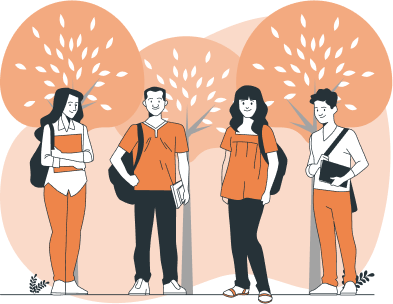
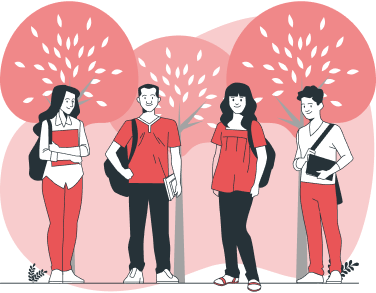
Updated design

diff --git a/src/components/JoinSection.jsx b/src/components/JoinSection.jsx
@@ -5,18 +5,21 @@ import join_3 from "../assets/join_3.png";
 
 const JoinSection = () => {
   return (
-    <section className="mb-10">
+    <section className="pb-20">
       <div className="py-10 w-[85%] mx-auto">
         <img src={join_main} className="w-full mt-20 mb-8" alt="" />
-        <p className="text-center text-[20px] font-semibold tracking-wide">
-          "Join our dynamic community to connect, learn, and grow. Students find
-          internships, mentors share expertise, and founders discover top
-          talent. Together, we shape a brighter future."
+        <p className="text-center text-[20px] font-normal ">
+          Welcome to our vibrant community, where connection, learning, and
+          growth take centre stage. Our platform bridges the gap between
+          students seeking valuable internships, mentors eager to share their
+          expertise, and founders in search of top-tier talent. <br /> <br />
+          By coming together, we pave the way for a brighter and more promising
+          future, empowering individuals to thrive and succeed.
         </p>
       </div>
 
       <div>
-        <h1 className="mt-8 my-20 text-[60px] font-bold text-center font-serifDisplay">
+        <h1 className="mt-8 mt-24 mb-20 text-[60px] font-bold text-center font-serifDisplay">
           WHO CAN JOIN ?
         </h1>
 
@@ -25,12 +28,12 @@ const JoinSection = () => {
             <div>
               <img src={join_1} alt="" />
             </div>
-            <div className="w-[760px] bg-[#FFE6B0] border-[1px] border-r-[2px] border-b-[3px] border-black rounded-[10px] py-[15px] px-[30px] ">
+            <div className="w-[760px] bg-white border-[1px] border-r-[2px] border-b-[4px] border-black rounded-[10px] py-[15px] px-[30px] ">
               <div>
                 <h2 className="text-[30px] font-semibold font-sans">
                   Students
                 </h2>
-                <p className="text-[20px] text-[#634300]">
+                <p className="text-[20px] ">
                   Whether you're searching for the perfect internship, seeking
                   valuable insights, or looking to develop essential skills,
                   we've got you covered. Access a treasure trove of growth
@@ -39,19 +42,19 @@ const JoinSection = () => {
                   a brighter future together.
                 </p>
               </div>
-              <button className="bg-[#A244C3] text-white py-[10px] px-[16px] rounded-[5px] border-[1px] border-black block mx-auto mt-4">
+              <button className="bg-[#A244C3] font-semibold text-white py-[10px] px-[16px] rounded-[5px] border-[1px] border-black border-r-[3px] border-b-[4px] block mx-auto mt-4">
                 JOIN NOW
               </button>
             </div>
           </div>
 
           <div className="flex w-[85%] mx-auto  justify-around">
-            <div className="w-[760px] bg-[#FFE6B0] border-[1px] border-r-[2px] border-b-[3px] border-black rounded-[10px] py-[15px] px-[30px]">
+            <div className="w-[760px] bg-white border-[1px] border-r-[2px] border-b-[4px] border-black rounded-[10px] py-[15px] px-[30px]">
               <div>
                 <h2 className="text-[30px] font-semibold font-sans">
                   Startups
                 </h2>
-                <p className="text-[20px] text-[#634300]">
+                <p className="text-[20px] ">
                   Connect with our platform to tap into a pool of motivated,
                   internship-seeking talent. Identify potential future hires,
                   foster relationships with emerging talent, and offer
@@ -61,7 +64,7 @@ const JoinSection = () => {
                   with us.
                 </p>
               </div>
-              <button className="bg-[#A244C3] text-white py-[10px] px-[16px] rounded-[5px] border-[1px] border-black block mx-auto mt-4">
+              <button className="bg-[#A244C3] font-semibold text-white py-[10px] px-[16px] rounded-[5px] border-[1px] border-black border-r-[3px] border-b-[4px] block mx-auto mt-4">
                 JOIN NOW
               </button>
             </div>
@@ -74,20 +77,20 @@ const JoinSection = () => {
             <div>
               <img src={join_3} alt="" />
             </div>
-            <div className="w-[760px] bg-[#FFE6B0] border-[1px] border-r-[2px] border-b-[3px] border-black rounded-[10px] py-[15px] px-[30px]">
+            <div className="w-[760px] bg-white border-[1px] border-r-[3px] border-b-[4px] border-black rounded-[10px] py-[15px] px-[30px]">
               <div>
                 <h2 className="text-[30px] font-semibold font-sans">Mentors</h2>
-                <p className="text-[20px] text-[#634300]">
+                <p className="text-[20px] ">
                   Join our community and become an invaluable resource for both
-                  students and founders. <br /> Share your expertise with the
-                  next generation and gain exposure for your services. Connect
-                  with motivated students seeking guidance and collaborate with
-                  innovative founders. It's a win-win opportunity to make a
-                  meaningful impact while advancing your own career. Join us
-                  today!
+                  students and founders. <br />
+                  Share your expertise with the next generation and gain
+                  exposure for your services. Connect with motivated students
+                  seeking guidance and collaborate with innovative founders.
+                  It's a win-win opportunity to make a meaningful impact while
+                  advancing your own career. Join us today!
                 </p>
               </div>
-              <button className="bg-[#A244C3] text-white py-[10px] px-[16px] rounded-[5px] border-[1px] border-black block mx-auto mt-4">
+              <button className="bg-[#A244C3] font-semibold text-white py-[10px] px-[16px] rounded-[5px] border-[1px] border-black border-r-[3px] border-b-[4px] block mx-auto mt-4">
                 JOIN NOW
               </button>
             </div>

diff --git a/src/components/Hero.jsx b/src/components/Hero.jsx
@@ -4,29 +4,44 @@ import Gradient from "../assets/Gradient.png";
 import cup from "../assets/cup.png";
 import tie from "../assets/tie.png";
 import line from "../assets/line.png";
-import share from "../assets/share.png";
 
 const Header = () => {
   return (
     <div className="relative">
-      <div className="relative h-[730px] overflow-hidden">
+      <div className="z-10 relative h-[750px] overflow-hidden">
         <div className="absolute -z-10 w-full">
           <img src={Gradient} className="w-full h-[790px]" alt="" />
         </div>
+
         <Navbar />
         <HeroText />
-        <img src={cup} className="absolute left-0 top-28" alt="" />
+
+        <img src={cup} className="absolute left-0 top-36" alt="" />
         <img
           src={line}
-          className="absolute translate-x-[285px] -translate-y-[340px] w-[69%]"
+          className="absolute translate-x-[247px] -translate-y-[390px]  w-[73%]"
           alt=""
         />
-        <img src={tie} className="absolute right-0 top-52" alt="" />
+        <img src={tie} className="absolute right-0 top-44" alt="" />
       </div>
-      <button className="-mt-8 mx-auto -bottom-7 py-3  w-[350px] rounded-full  bg-white border-2 border-t-[3px] border-black border-r-4 border-b-[6px] font-bold text-lg flex justify-center gap-8 items-center">
-        <p>JOIN NOW</p>
-        <img src={share} alt="" />
-      </button>
+
+      <div className="px-10 relative z-30 pt-10 pb-4 w-[85%] -mt-10 rounded-[20px] mx-auto bg-white font-helvetica flex border-[2px] border-black justify-around items-center">
+        <p className="text-5xl font-bold leading-5 ">
+          1500+ <br /> <span className="text-lg font-medium">Students</span>
+        </p>
+        <p className="text-5xl font-bold leading-5">
+          120+ <br /> <span className="text-lg font-medium">Startups</span>
+        </p>
+        <p className="text-5xl font-bold leading-5">
+          500+ <br /> <span className="text-lg font-medium">Mentors</span>
+        </p>
+        <p className="text-5xl font-bold leading-5">
+          1000+ <br /> <span className="text-lg font-medium">Internships</span>
+        </p>
+        <p className="text-5xl font-bold leading-5">
+          450+ <br /> <span className="text-lg font-medium">Events</span>
+        </p>
+      </div>
     </div>
   );
 };

diff --git a/src/components/HeroText.jsx b/src/components/HeroText.jsx
@@ -2,12 +2,16 @@ const Hero = () => {
   return (
     <div className=" flex justify-center items-center h-[450px] w-full">
       <div className="mt-20">
-        <h2 className="text-[#FFED48] text-center text-[30px] font-serif">
+        <h2 className="leading-6 text-[#FFED48] text-center text-[30px] font-helvetica">
           A Community where
         </h2>
-        <h1 className="font-serifDisplay text-white font-[600] tracking-wider text-[60px]">
-          TALENT <span className="font-thin">meets</span> OPPORTUNITY
+        <h1 className="font-helvetica text-center text-white font-[600] text-[60px]">
+          Talent meets Opportunity
         </h1>
+        <p className="text-white w-[60%] mx-auto text-center text-[19px]">
+          getSync is a community-based platform that empowers students and
+          founders to learn, earn, and network
+        </p>
       </div>
     </div>
   );

diff --git a/src/components/Navbar.jsx b/src/components/Navbar.jsx
@@ -11,9 +11,9 @@ const Navbar = () => {
 
   return (
     <nav>
-      <div className="w-[85%] mx-auto flex px-4 py-6 justify-between items-end">
+      <div className="w-[85%] mx-auto flex px-4 py-6 justify-between items-center">
         <div>
-          <img src={logo} alt="logo" />
+          <img className="object-cover" src={logo} alt="logo" />
         </div>
         <div>
           <ul className="flex text-lg font-sans  gap-10">
@@ -31,7 +31,9 @@ const Navbar = () => {
           </ul>
         </div>
         <div>
-          <img src={logo} alt="logo" />
+          <button className="bg-[#4F0968] border-[1px] border-white  text-white rounded-[5px] font-sans w-[146px] h-[41px] text-[18px] shadow-black shadow-sm">
+            HACK 2.0
+          </button>
         </div>
       </div>
     </nav>

diff --git a/src/index.css b/src/index.css
@@ -1,4 +1,5 @@
 @import url("https://fonts.googleapis.com/css2?family=Caveat+Brush&family=DM+Serif+Display&display=swap");
+@import url("https://fonts.cdnfonts.com/css/helvetica-neue-55");
 
 @tailwind base;
 @tailwind components;

diff --git a/tailwind.config.js b/tailwind.config.js
@@ -6,6 +6,7 @@ export default {
       fontFamily: {
         caveat: ["Caveat Brush", "cursive"],
         serifDisplay: ["DM Serif Display", "serif"],
+        helvetica: ["Helvetica Neue", "sans-serif"],
       },
     },
   },

diff --git a/src/pages/Home/Home.jsx b/src/pages/Home/Home.jsx
@@ -3,7 +3,7 @@ import JoinSection from "../../components/JoinSection";
 
 const Home = () => {
   return (
-    <div>
+    <div className="bg-[#CBCBCB]">
       <Hero />
       <JoinSection />
     </div>
